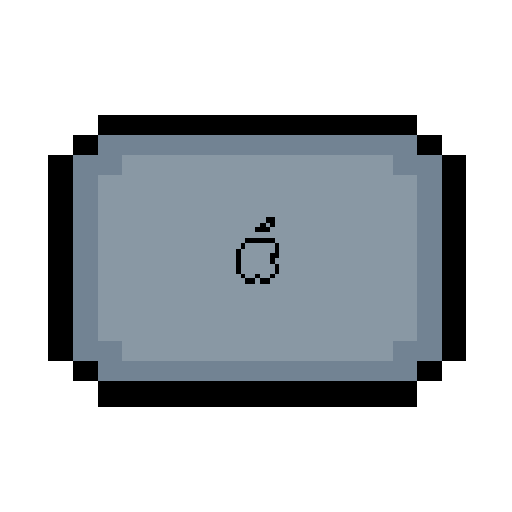
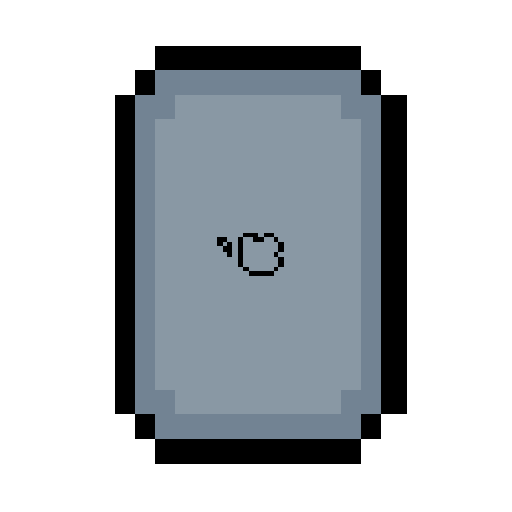
I did the score system and all the scenes. only thing left is more stripes

diff --git a/scenes/GameScene.js b/scenes/GameScene.js
@@ -5,23 +5,23 @@ export default class GameScene extends Phaser.Scene {
 
     preload() {
         this.load.image('hairdryer', 'assets/hairdryer.png');
+        this.load.json('hairdryerShape', 'assets/hairdryer.json');
         this.load.image('laptop', 'assets/laptop.png');
-        this.load.image('flipH', 'assets/flip.png');
-        this.load.image('flipV', 'assets/rotate.png');
+        this.load.json('laptopShape', 'assets/laptop.json');
     }
 
     create() {
-        this.box = this.add.rectangle(200, 250, 300, 400, 0xb8b3ae);
-        const {x, y, width: boxW, height: boxH} = this.box;
-        const halfW = boxW/2;
-        const halfH = boxH/2;
+        this.box = this.add.rectangle(250, 300, 400, 500, 0xb8b3ae);
+        this.box.setStrokeStyle(10, 0x614d3c);
+
+        const { x, y, width: boxW, height: boxH } = this.box;
+        const halfW = boxW / 2;
+        const halfH = boxH / 2;
         this.stroke = 10;
         this.touchingBorders = new Map();
-        this.box.setStrokeStyle(this.stroke, 0x614d3c);
         this.packed = new Set();
         this.sprites = [];
-        this.flipH = this.add.image(1150, 550, 'flipH');
-        this.flipV = this.add.image(1100, 550, 'flipV');
+
         this.leftWall = this.matter.add.rectangle(
             x - halfW,
             y,
@@ -55,29 +55,55 @@ export default class GameScene extends Phaser.Scene {
 
         );
 
-        this.flipH.setInteractive();
-        this.flipV.setInteractive();
+        this.hairdryer = this.matter.add.sprite(600, 200, 'hairdryer', null, {
+            shape: this.cache.json.get('hairdryerShape')['hairdryer']
+        });
 
-        this.hairdryer = this.add.sprite(700, 200, 'hairdryer');
         this.hairdryer.setScale(0.6);
+        this.hairdryer.setFixedRotation();
+        this.hairdryer.setIgnoreGravity(true);
         this.hairdryer.setInteractive();
-        this.input.setDraggable(this.hairdryer);
-        this.sprites.push(this.hairdryer);
 
-        this.laptop = this.add.sprite(800, 200, 'laptop');
+        this.laptop = this.matter.add.sprite(800, 200, 'laptop', null, {
+            shape: this.cache.json.get('laptopShape')['laptop']
+        });
+
         this.laptop.setScale(0.5);
+        this.laptop.setFixedRotation();
+        this.laptop.setIgnoreGravity(true);
         this.laptop.setInteractive();
+
+        this.sprites.push(this.hairdryer, this.laptop);
+        this.input.setDraggable(this.hairdryer);
         this.input.setDraggable(this.laptop);
-        this.sprites.push(this.laptop);
 
         this.selected = this.laptop;
 
-        this.input.on('drag', (pointer, gameObject, dragX, dragY) => {
-            dragY= Phaser.Math.Clamp(dragY, 24, 600-24);
-            dragX = Phaser.Math.Clamp(dragX, 24, 1200-24);
+        const myText = this.add.text(950, 550, 'Done?', {
+            fontFamily: 'roboto',
+            fontSize: '32px',
+            fontWeight: '100',
+            fill: 'black',
+            color: '#b4f8f3',
+        });
 
-            gameObject.x = dragX;
-            gameObject.y = dragY;
+        this.warningshown = false;
+        this.warning = this.add.text(600, 300, 'Overflow of objects! Remove something.', {
+            fontFamily: 'roboto',
+            fontSize: '48px',
+            color: '#ff0000',
+            backgroundColor: '#fff0f0',
+            padding: { x: 10, y: 5 },
+            align: 'center'
+        }).setOrigin(0.5).setDepth(10);
+        this.warning.setVisible(this.warningshown);
+        myText.setInteractive();
+
+        this.input.on('drag', (pointer, gameObject, dragX, dragY) => {
+            dragY = Phaser.Math.Clamp(dragY, 24, 600 - 24);
+            dragX = Phaser.Math.Clamp(dragX, 24, 1200 - 24);
+
+            this.matter.body.setPosition(gameObject.body, { x: dragX, y: dragY });
             this.selected = gameObject;
         });
 
@@ -89,34 +115,81 @@ export default class GameScene extends Phaser.Scene {
             this.input.manager.canvas.style.cursor = 'default';
         });
 
-        this.flipH.on('pointerdown', () => {
-            this.selected.setFlipX(!this.selected.flipX);
-            console.log(this.selected);
-            if (this.selected === this.hairdryer) {
+        myText.on('pointerdown', () => {
+            const anyOverflow = this.sprites.some(sprite => this.touchingBorders.has(sprite));
 
+            if (anyOverflow && !this.warningshown) {
+                this.warningshown = true;
+                this.warning.setVisible(this.warningshown);
+
+                this.time.delayedCall(100, () => {
+                    this.input.once('pointerdown', () => {
+                        this.warningshown = false;
+                        this.warning.setVisible(false);
+                    });
+                });
             }
+
+            let score=0;
+            let text='';
+            if (!this.warningshown) {
+                this.packed.forEach(p => {
+                    if (p===this.hairdryer) {
+                        score += 10;
+                    }
+                    if (p===this.laptop) {
+                        score += 7;
+                    }
+                })
+            }
+
+            if (score < 10) {
+                text = "you survived 3 days. You are dead";
+            } else if (score >= 10) {
+                text = 'you survived 2 weeks. You managed to find shelter';
+            } else {
+                text = 'you survived 3 months. You are thriving';
+            }
+
+            console.log(score);
+            this.scene.start('ScoreScene', {score: score, text: text});
         });
 
+        this.graphics = this.add.graphics();
+        this.graphics.lineStyle(2, 0xff0000, 1);
     }
 
-    /*scoring system here later*/
     update() {
-        const isInBox = (sprite) => {
-            const bounds = sprite.getBounds(); // no body required
-            const boxBounds = this.box.getBounds();
+        this.sprites.forEach(sprite => {
+            const bounds = sprite.getBounds();
 
-            const inside = bounds.right < boxBounds.right &&
-                bounds.left > boxBounds.left &&
-                bounds.bottom < boxBounds.bottom &&
-                bounds.top > boxBounds.top;
+            const touchingLeft = this.matter.overlap(sprite, this.leftWall);
+            const touchingRight = this.matter.overlap(sprite, this.rightWall);
+            const touchingTop = this.matter.overlap(sprite, this.topWall);
+            const touchingBottom = this.matter.overlap(sprite, this.bottomWall);
 
-            if (inside && (sprite.tintTopLeft !== 0xFF0000)) {
+            const touchingBorders = new Set();
+            if (touchingLeft) touchingBorders.add('left');
+            if (touchingRight) touchingBorders.add('right');
+            if (touchingTop) touchingBorders.add('top');
+            if (touchingBottom) touchingBorders.add('bottom');
+
+            if (touchingBorders.size > 0) {
+                this.touchingBorders.set(sprite, touchingBorders);
+                sprite.setTint(0xff0000);
+            } else {
+                this.touchingBorders.delete(sprite);
+                sprite.clearTint();
+            }
+
+            const overlapsBox = Phaser.Geom.Intersects.RectangleToRectangle(bounds, this.box.getBounds());
+            const fullyInside = overlapsBox && touchingBorders.size === 0;
+
+            if (fullyInside) {
                 this.packed.add(sprite);
-            } else if (!inside && this.packed.has(sprite)) {
+            } else {
                 this.packed.delete(sprite);
             }
-            return inside;
-        };
-        this.sprites.forEach(sprite => isInBox(sprite));
+        });
     }
 }

diff --git a/scenes/ScoreScene.js b/scenes/ScoreScene.js
@@ -1,0 +1,22 @@
+export default class ScoreScene extends Phaser.Scene {
+    constructor() {
+        super('ScoreScene');
+    }
+
+    init(data) {
+        this.score = data.score;
+        this.text = data.text;
+    }
+
+    create() {
+        this.add.text(100, 100, 'Score: '+ this.score, {
+            fontSize: '32px',
+            color: '0xff0000'
+        });
+
+        this.add.text(100, 200, this.text, {
+            fontSize: '32px',
+            color: '0xff0000'
+        });
+    }
+}

diff --git a/index.html b/index.html
@@ -8,6 +8,9 @@
     <link rel="stylesheet" href="snowStyle.css">
     <link rel="stylesheet" href="gameStyle.css">
     <script src="libs/phaser.js"></script>
+    <link rel="preconnect" href="https://fonts.googleapis.com">
+    <link rel="preconnect" href="https://fonts.gstatic.com" crossorigin>
+    <link href="https://fonts.googleapis.com/css2?family=Roboto:wght@100&display=swap" rel="stylesheet">
 
 </head>
 <body>

diff --git a/GameScript.js b/GameScript.js
@@ -1,5 +1,6 @@
 import StartScene from './scenes/StartScene.js';
 import GameScene from './scenes/GameScene.js';
+import ScoreScene from './scenes/ScoreScene.js';
 
 const config = {
     type: Phaser.AUTO,
@@ -14,7 +15,7 @@ const config = {
             debug: true
         }
     },
-    scene: [/*StartScene,*/ GameScene]
+    scene: [StartScene, GameScene, ScoreScene]
 };
 
 const game = new Phaser.Game(config);
